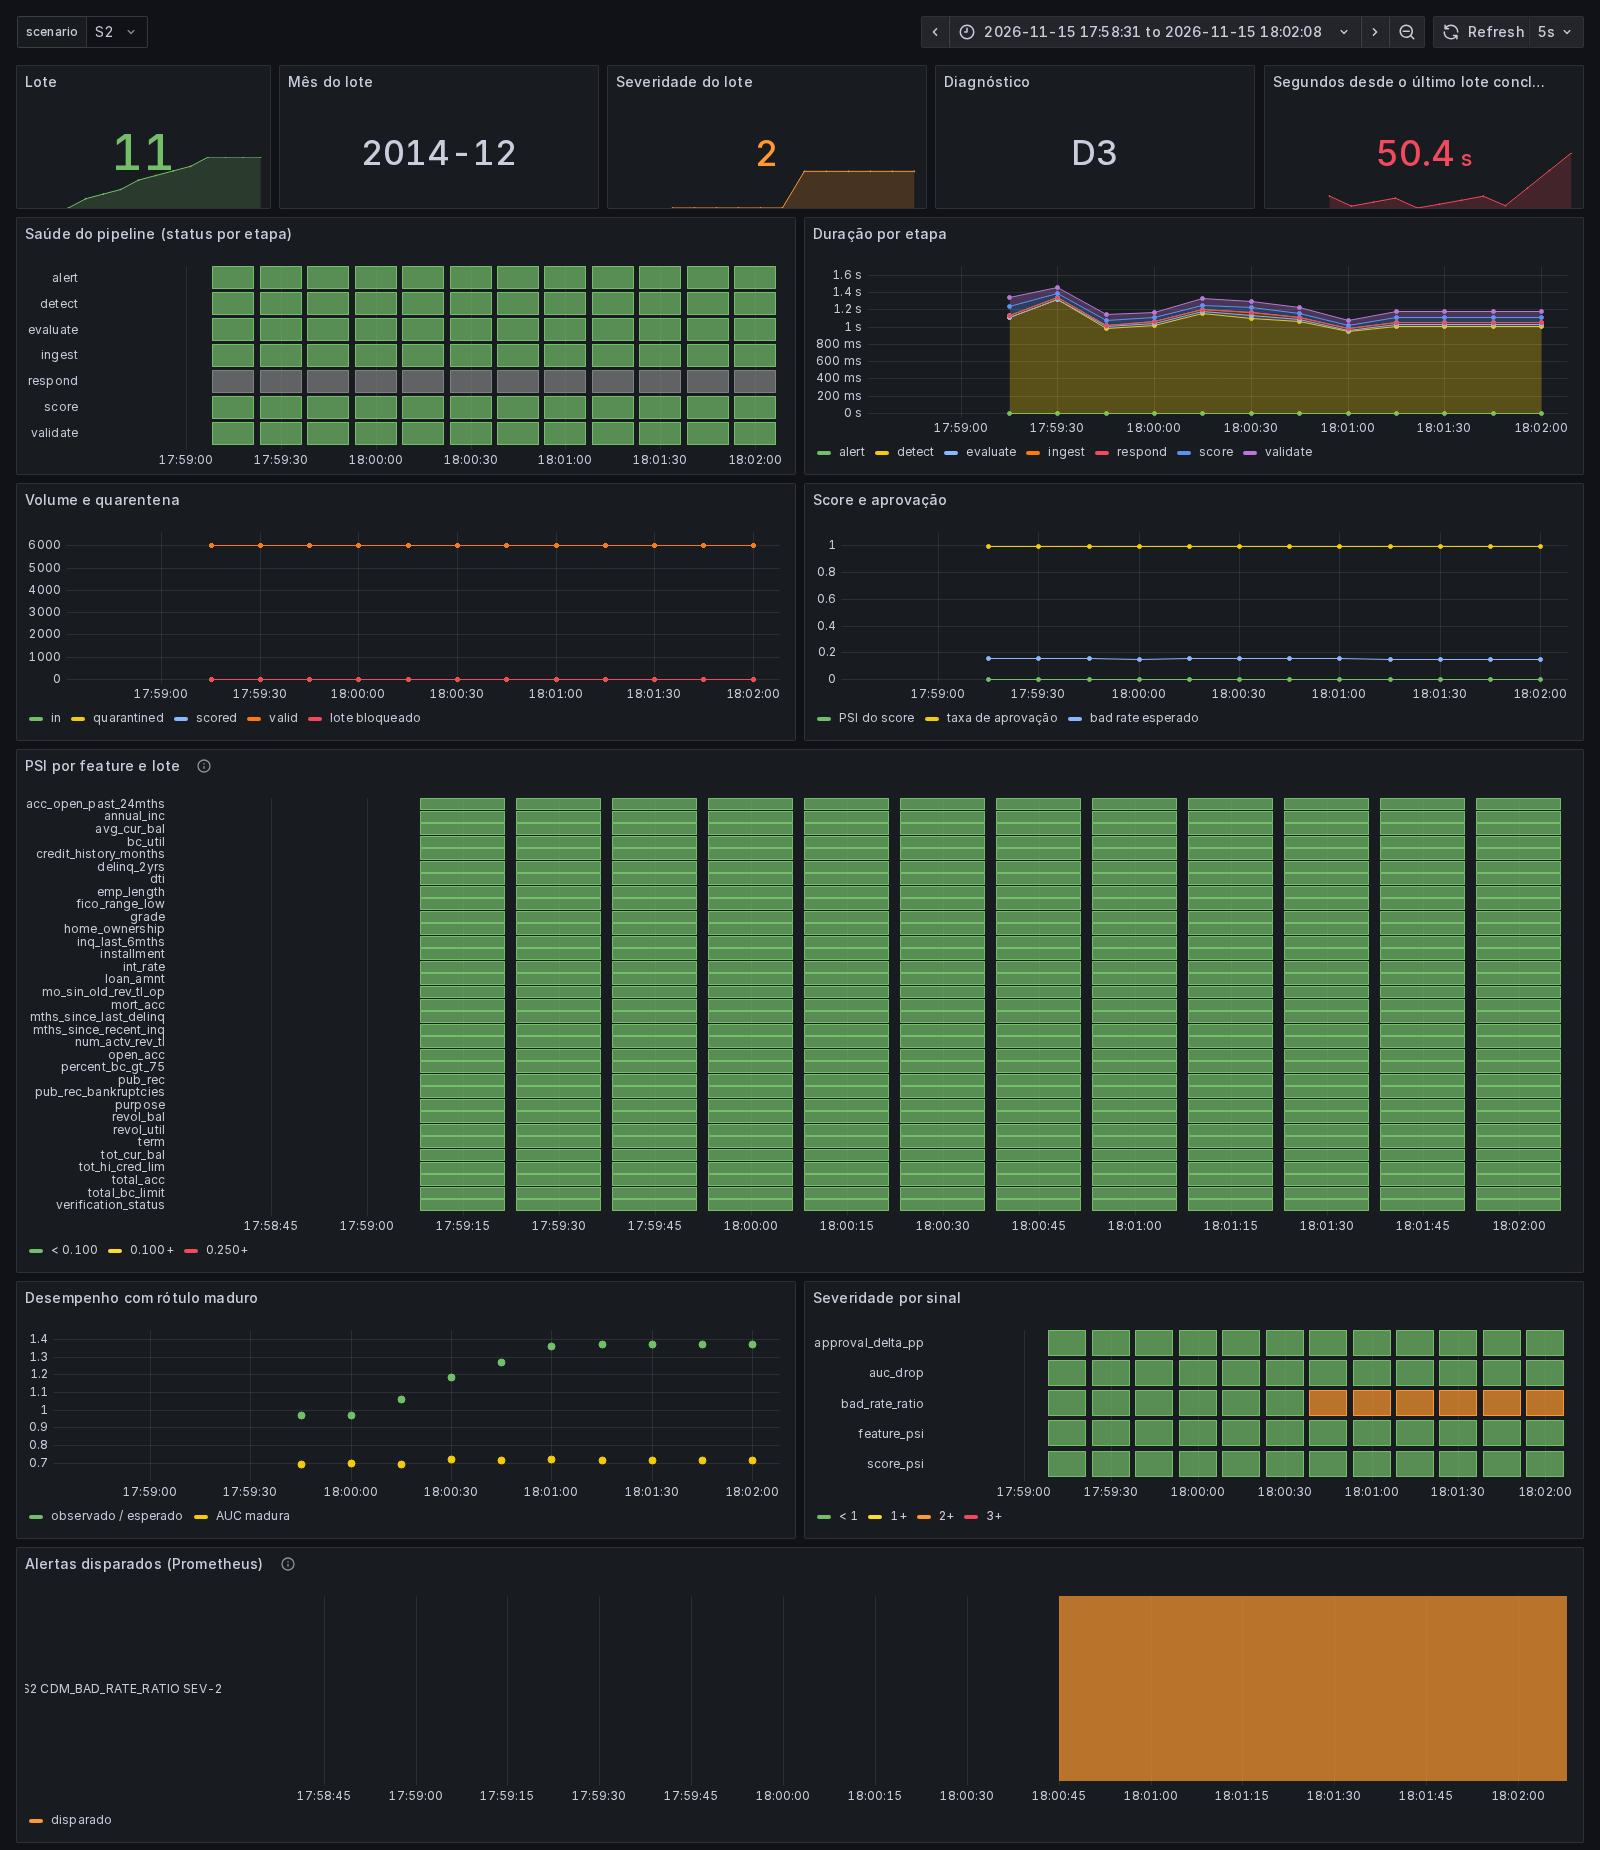
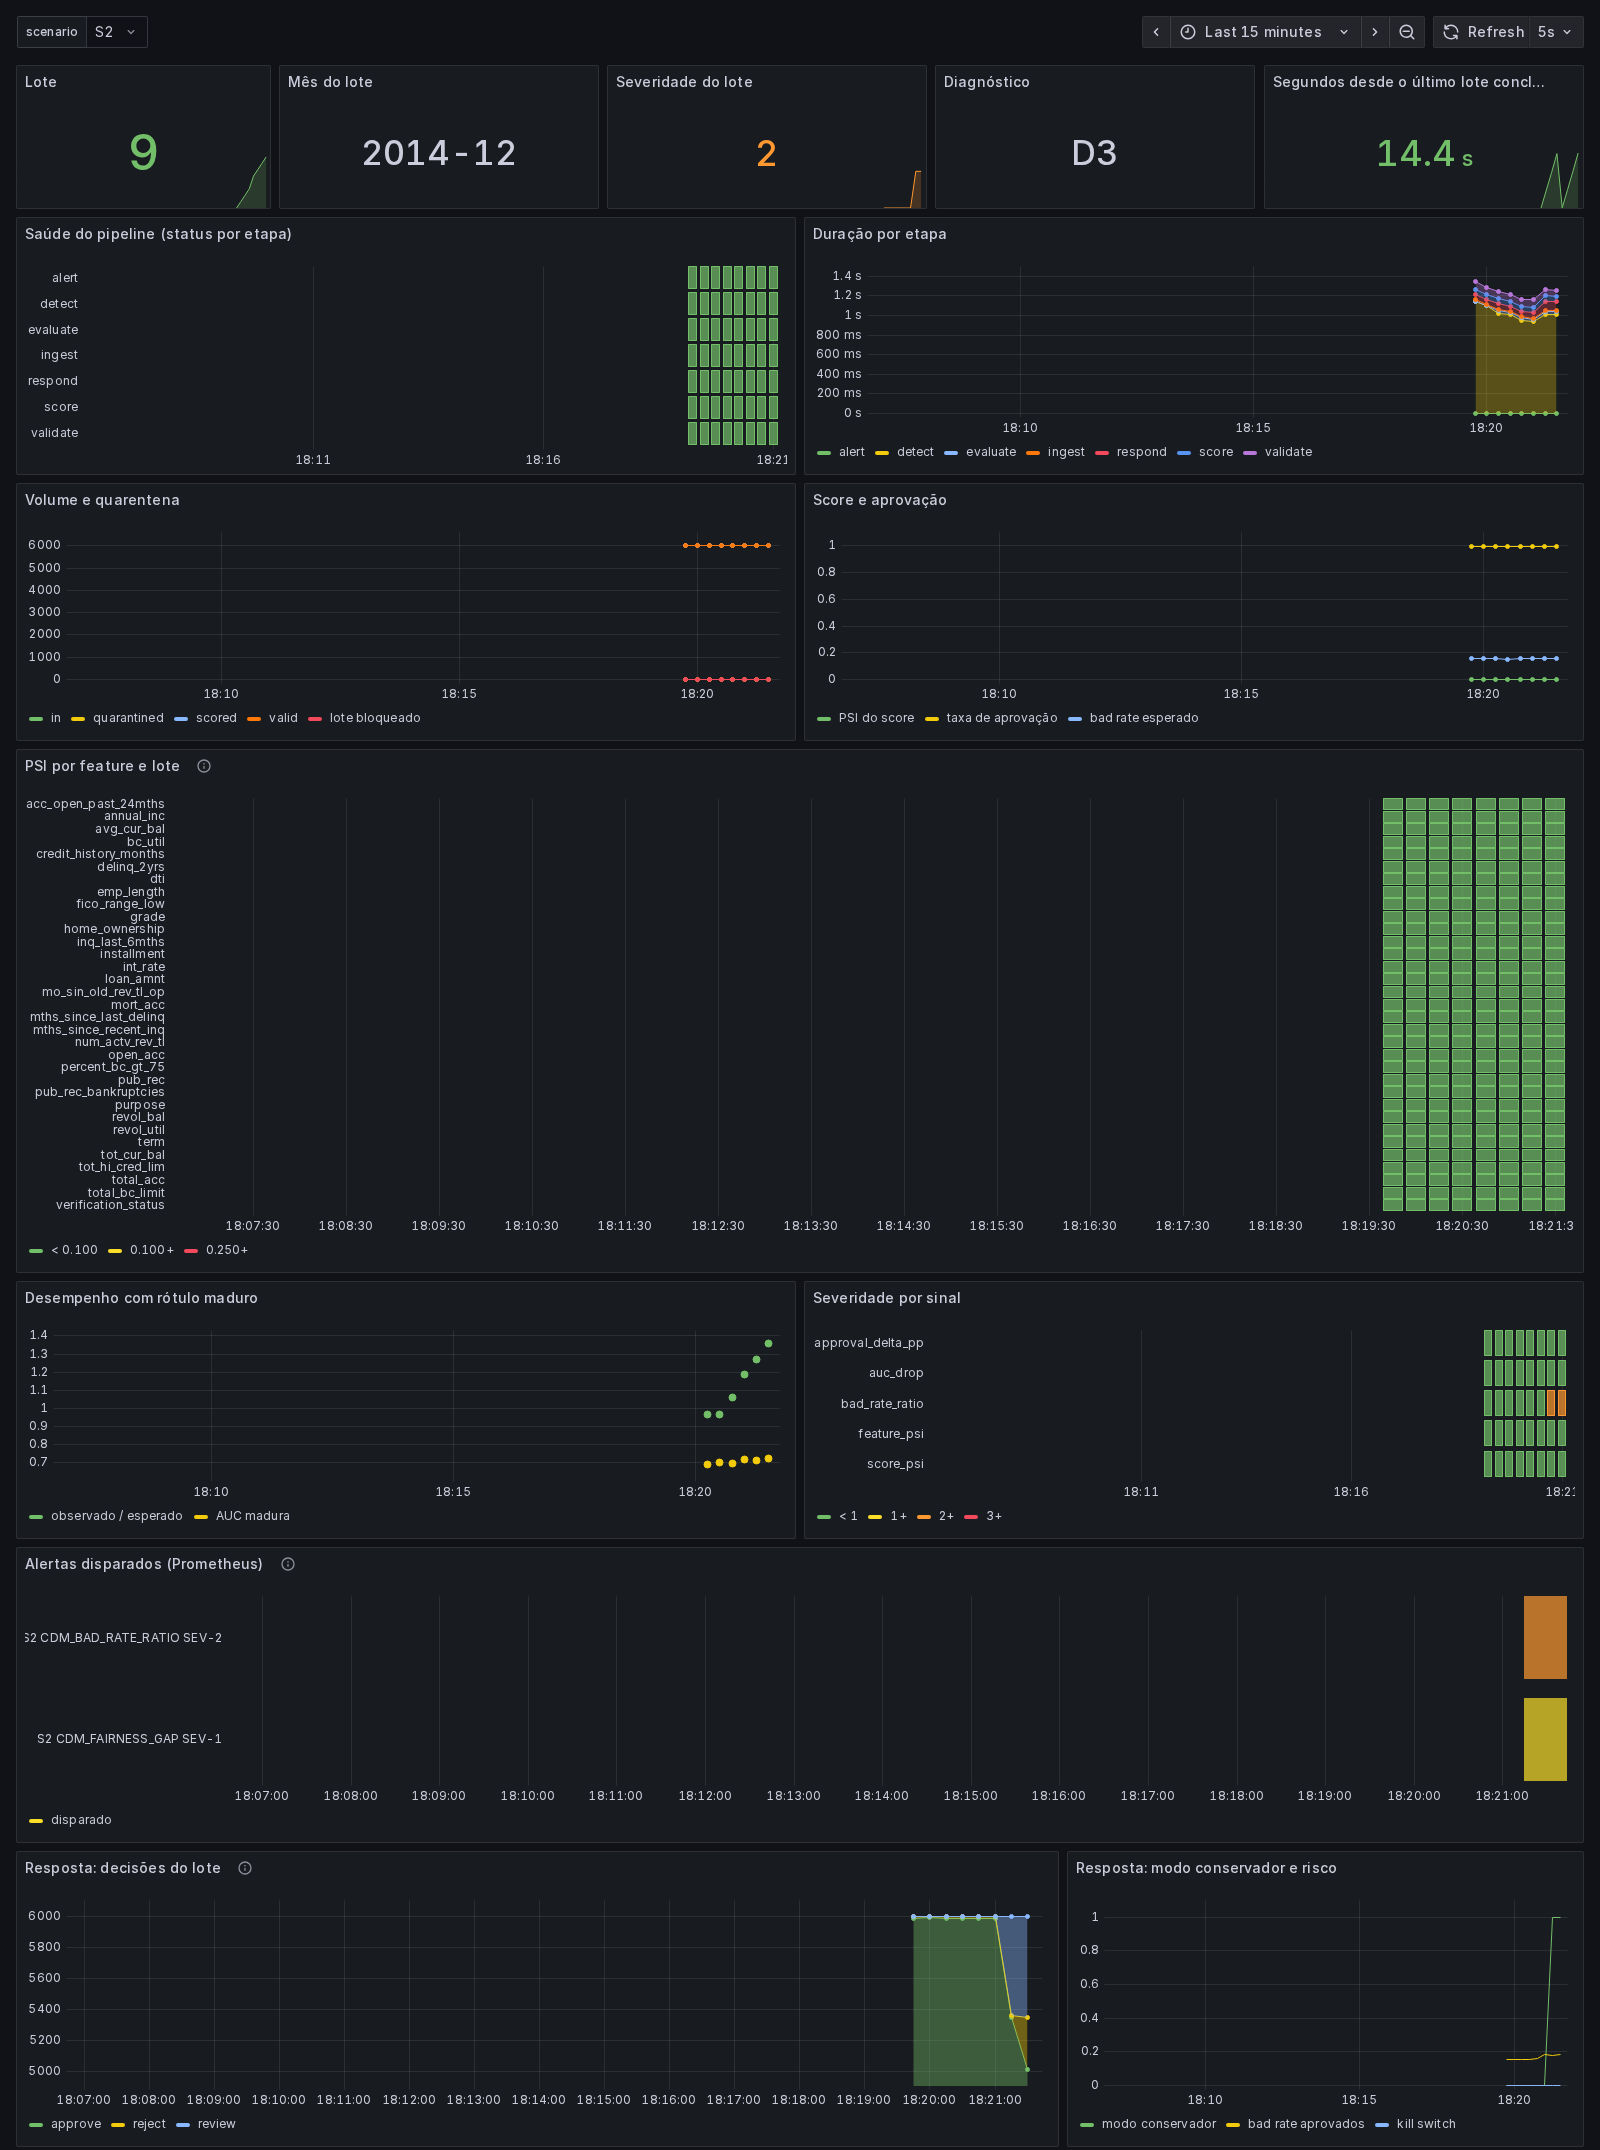
docs: registra replay do cenário S2 na stack recriada do zero com prints atualizados

diff --git a/docs/runs/RUN-20261117-monitor-S2-01.md b/docs/runs/RUN-20261117-monitor-S2-01.md
@@ -1,0 +1,39 @@
+# RUN-20261117-monitor-S2-01
+
+> Gerado por `src/reporting/run_record.py`. Não editar números à mão.
+
+| Campo | Valor |
+|---|---|
+| Data | 2026-11-17 18:21 |
+| Tipo | monitor |
+| Git SHA | `6d5fb4dcf1657891d01db556ca29931df0a41480` |
+| Árvore limpa | sim |
+| Hash dos dados de entrada | `—` |
+| Cenário / seed | S2 / 0 |
+| Modelo | champion |
+| MLflow | experimento `monitoring` |
+| modo | replay |
+| push | True |
+
+## Métricas
+
+| Métrica | job |
+|---|---|
+| batches | 12 |
+| blocked | 0 |
+| duration_max_s | 2.2385 |
+| duration_p50_s | 2.0276 |
+| failed_steps | 0 |
+| first_alert_batch | 8 |
+
+## Artefatos
+
+- `logs/RUN-20261117-monitor-S2-01.jsonl`
+- `logs/RUN-20261117-monitor-S2-01.summary.json`
+
+## Veredito
+
+pipeline: 12 lotes · 0 bloqueados · 0 etapas com falha · alertas {'CDM_BAD_RATE_RATIO': 'SEV-2', 'CDM_FAIRNESS_GAP': 'SEV-1'}
+
+## Observações
+

diff --git a/docs/runs/INDEX.md b/docs/runs/INDEX.md
@@ -63,3 +63,4 @@ Observações humanas sobre os runs ficam na seção "Observações" de cada reg
 | [RUN-20261117-calib-ROBUST-02](RUN-20261117-calib-ROBUST-02.md) | 2026-11-17 | calib | ROBUST | fora da regra na magnitude oficial ou no controle: S2 m=1 | sim |
 | [RUN-20261117-monitor-S0-01](RUN-20261117-monitor-S0-01.md) | 2026-11-17 | monitor | S0 | pipeline: 12 lotes · 0 bloqueados · 0 etapas com falha · alertas {} | sim |
 | [RUN-20261117-monitor-S1-01](RUN-20261117-monitor-S1-01.md) | 2026-11-17 | monitor | S1 | pipeline: 12 lotes · 0 bloqueados · 0 etapas com falha · alertas {'CDM_FEATURE_DRIFT': 'SEV-2', 'CDM_SCORE_DRIFT': 'SEV-1'} | sim |
+| [RUN-20261117-monitor-S2-01](RUN-20261117-monitor-S2-01.md) | 2026-11-17 | monitor | S2 | pipeline: 12 lotes · 0 bloqueados · 0 etapas com falha · alertas {'CDM_BAD_RATE_RATIO': 'SEV-2', 'CDM_FAIRNESS_GAP': 'SEV-1'} | sim |
